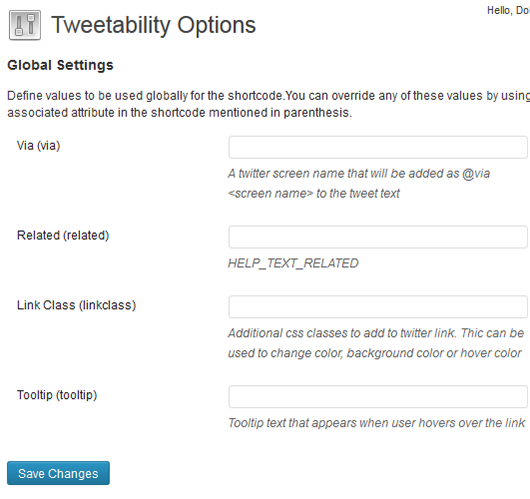
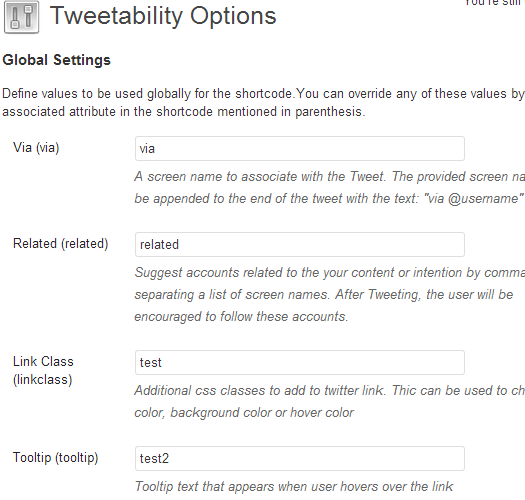
Version 0.2.0

diff --git a/inc/admin-settings.php b/inc/admin-settings.php
@@ -57,9 +57,11 @@ class Tweetability_Admin {
   }
 
   /**
-  * Adds the settings link on plugins page
-  */
-  public function filter_action_links( $links, $file ) {
+   * Handles filter_action_links filter. Adds the settings link on plugins page
+   *
+   * @since    0.1.0
+   */
+  public static function filter_action_links( $links, $file ) {
     if ( $file != Tweetability_Info::$plugin_basename )
       return $links;
 
@@ -117,6 +119,7 @@ class Tweetability_Admin {
    * Register and enqueue admin-specific JavaScript.
    *
    * @since     0.1.0
+   *
    * @return    void
    */
   public function enqueue_admin_scripts($screen_suffix) {
@@ -139,9 +142,11 @@ class Tweetability_Admin {
       <?php screen_icon(); ?>
       <h2><?php printf( __('Tweetability Options', 'tweetability') ) ?></h2>
       <form action="options.php" method="POST">
-        <?php settings_fields( 'tweetability-settings-group' ); ?>
-        <?php do_settings_sections( Tweetability_Info::settings_page_slug ); ?>
-        <?php $this->render_submit_button() ?>
+      <?php 
+        settings_fields( 'tweetability-settings-group' );
+        do_settings_sections( Tweetability_Info::settings_page_slug );
+        $this->render_submit_button();
+      ?>
 
       </form>
     </div>
@@ -164,13 +169,14 @@ class Tweetability_Admin {
   }
 
   /**
-  * Adds sections and fields on settings page using settings API
-  *
-  * @since    0.1.0
-  */
+   * Handles admin_init action
+   * Adds sections and fields on settings page using settings API
+   *
+   * @since    0.1.0
+   */
 
   public function handle_admin_init() {
-    add_filter( 'plugin_action_links', array($this,'filter_action_links'), 10, 2 );
+    add_filter( 'plugin_action_links', array('Tweetability_Admin','filter_action_links'), 10, 2 );
 
     $this->settings = get_option( 'tweetability-settings' );
 
@@ -187,9 +193,9 @@ class Tweetability_Admin {
 
     // Fields - General Settings section
     add_settings_field( 'tweetability-via', __('Via', 'tweetability') . ' (via)', array($this, 'add_setting'), $page, $sections[0],
-      array( 'via', __('A twitter screen name that will be added as @via <screen name> to the tweet text', 'tweetability') ) );
+      array( 'via', __('A screen name to associate with the Tweet. The provided screen name will be appended to the end of the tweet with the text: "via @username"', 'tweetability') ) );
     add_settings_field( 'tweetability-related', __('Related', 'tweetability') . ' (related)', array($this, 'add_setting'), $page, $sections[0],
-      array( 'related', __('HELP_TEXT_RELATED', 'tweetability') ) );
+      array( 'related', __('Suggest accounts related to the your content or intention by comma-separating a list of screen names. After Tweeting, the user will be encouraged to follow these accounts.', 'tweetability') ) );
     add_settings_field( 'tweetability-linkclass', __('Link Class', 'tweetability') . ' (linkclass)', array($this, 'add_setting'), $page, $sections[0],
       array( 'linkclass', __('Additional css classes to add to twitter link. Thic can be used to change color, background color or hover color', 'tweetability') ) );
     add_settings_field( 'tweetability-tooltip', __('Tooltip', 'tweetability') . ' (tooltip)', array($this, 'add_setting'), $page, $sections[0],

diff --git a/tweetability.php b/tweetability.php
@@ -7,15 +7,15 @@
  * @author  Kashif Iqbal Khan <kashiif@gmail.com>
  * @license   GPL-2.0+
  * @copyright 2013 Kashif Iqbal Khan kashiif@gmail.com
- * @link      www.kashiif.com
+ * @link      http://www.kashiif.com
  *
  * @wordpress-plugin
  * Plugin Name: Tweetability
  * Plugin URI:  https://wordpress.org/plugins/tweetability/
  * Description: Make sentences in your post tweetable - The modern way
- * Version:     0.1.0
+ * Version:     0.2.0
  * Author:      Kashif Iqbal Khan
- * Author URI:  www.kashiif.com
+ * Author URI:  http://www.kashiif.com
  * Text Domain: tweetability-locale
  * License:     GPL-2.0+
  * License URI: http://www.gnu.org/licenses/gpl-2.0.txt
@@ -44,7 +44,8 @@ class Tweetability_Info {
    * @var      string
    */
   const slug = 'tweetability';
-  //const base_name = 'tweetability';
+  
+  
   const settings_page_slug = 'tweetability-options';
 
 
@@ -74,6 +75,7 @@ class Tweetability_Info {
     self::$plugin_url = untrailingslashit(plugins_url('', __FILE__));
     self::$plugin_basename = plugin_basename(__FILE__);
 
+    // Load admin only when required
     add_action( 'admin_menu', array('Tweetability_Info','handle_admin_menu') );
   }
 

diff --git a/inc/class-tweetability.php b/inc/class-tweetability.php
@@ -28,8 +28,8 @@ class Tweetability {
 	 */
 	private function Tweetability() {
 
-		// Handle init
-		add_action( 'init', array( $this, 'handle_init' ) );
+    // Handle init
+    add_action( 'init', array( $this, 'handle_init' ) );
 
     // Lets enqueue script and style conditionally in the_posts handler
     add_filter( 'the_posts', array( $this, 'handle_the_posts') );
@@ -61,7 +61,7 @@ class Tweetability {
    * Handles init action.
    *
    * @since     0.2.0
-   * @return    object    A single instance of this class.
+   * @return    void
    */
   public function handle_init() {
     $this->load_plugin_textdomain();
@@ -100,7 +100,7 @@ class Tweetability {
   }
 
   /**
-   * Handles the_posts filter. Checks if the psots have the shortcode and enqueue script and stylesheet accordingly.
+   * Handles the_posts filter. Checks if the posts have the shortcode and enqueue script and stylesheet accordingly.
    *
    * @since    0.2.0
    */
